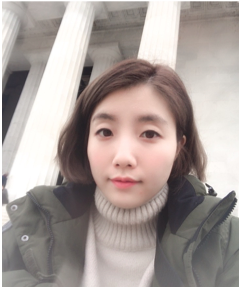
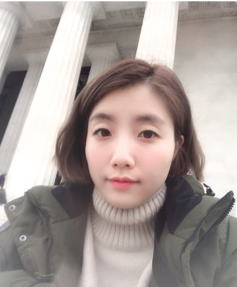
Suhee photo

diff --git a/People.html b/People.html
@@ -283,8 +283,8 @@
                                     <section style="padding: 20px 10px 20px 30px; margin: 0 0 25px 0;">
                                         <ul class="people-list">
                                             <li>
-                                                <img src="./images/people/silhouette.png" alt=""  width="100px" style="background-color:#EAFAF1"/>
-                                                <p style="line-height:2em; font-size:1.1em">박수희&nbsp&nbsp</p>
+                                                <img src="./images/people/parksuhee.png" alt=""  width="100px" style="background-color:#EAFAF1"/>
+                                                <p style="line-height:2em; font-size:1.1em">Park, Suhee&nbsp&nbsp</p>
                                                 <p>B.S. Student, presently at Kongju National University</p>
                                                 <p>suhee2308(at)gmail.com<br>
                                                 TBD</p>
